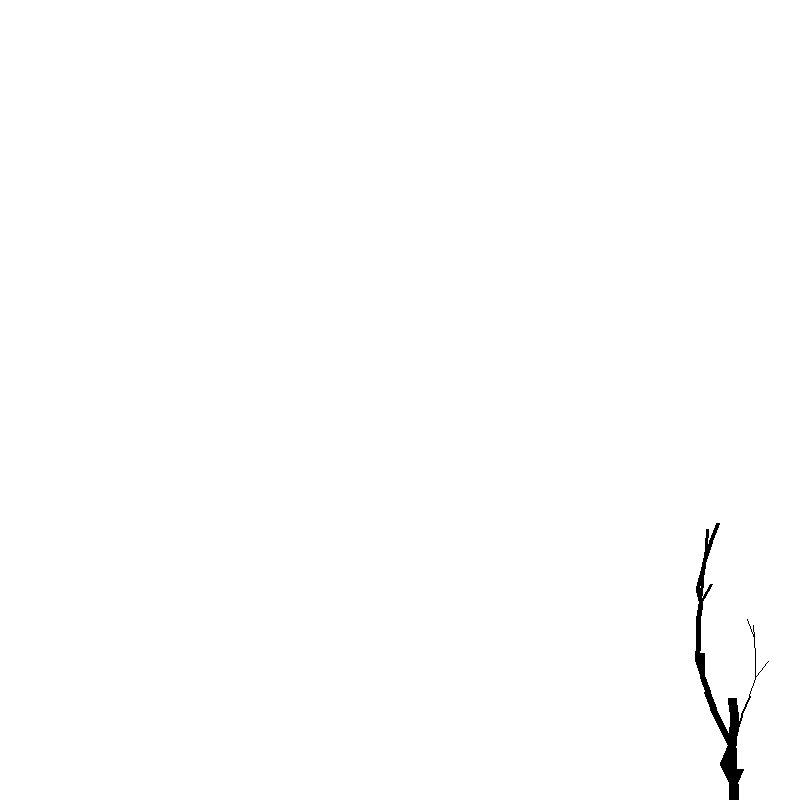
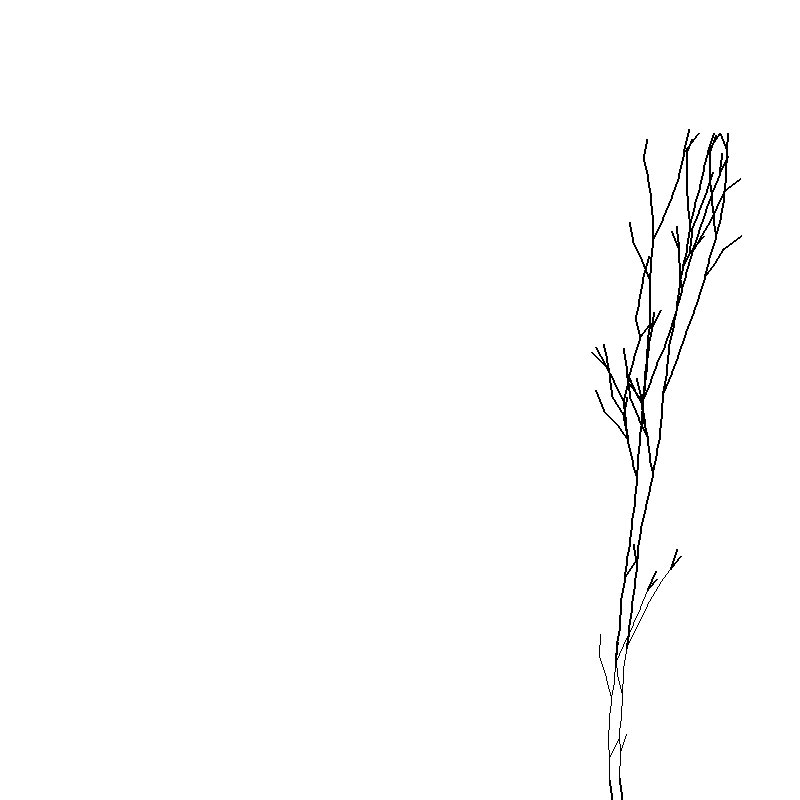
update

diff --git a/lsystemspog.py b/lsystemspog.py
@@ -75,7 +75,10 @@ def drawtree(screen, fullstring, posx, posy, seg_thickness, da, iterations):
     saving_endingofbraches = []
     branchcount = 0
 
+    max_seg_thickness = seg_thickness
     grow_angle = -90
+    text = MyText(BLACK)
+
     for cmd in fullstring:
         if cmd == 'F':
             seg_length = random.randint(15,25)
@@ -84,11 +87,11 @@ def drawtree(screen, fullstring, posx, posy, seg_thickness, da, iterations):
             dy = sin(radians(grow_angle))*seg_length
             distance = math.sqrt((((posx+dx)-posx)**2)+(((posy+dy)-posy)**2))
 
-            #screen.fill(WHITE)
-
             curbranch = branch(branchcount, distance, posx, posy, posx+dx, posy+dy)
             listofbranches.append(curbranch)
-            if (seg_thickness < 1):
+
+
+            if (seg_thickness <= 1):
                 curbranch.drawbranch(screen, 2)
             else:
                 curbranch.drawbranch(screen, int(seg_thickness))
@@ -103,7 +106,8 @@ def drawtree(screen, fullstring, posx, posy, seg_thickness, da, iterations):
             branchcount += 1
             posx = posx+dx
             posy = posy+dy
-            time.sleep(0.1)
+            time.sleep(0.05)
+            print(seg_thickness,"/",max_seg_thickness)
 
         elif cmd == '+':
             grow_angle += da
@@ -111,12 +115,20 @@ def drawtree(screen, fullstring, posx, posy, seg_thickness, da, iterations):
             grow_angle -= da
 
         elif cmd == '[':
-            seg_thickness -= 1
+            if (branchcount*iterations > iterations*5):
+                seg_thickness = seg_thickness-3
             saving_endingofbraches.append((posx,posy))
             saving_angle.append(grow_angle)
         elif cmd == ']':
+            if (branchcount*iterations > iterations*5):
+                seg_thickness = seg_thickness + 2
+                #seg_thickness = max_seg_thickness
+                #print(seg_thickness)
             posx,posy = saving_endingofbraches.pop()
             grow_angle = saving_angle.pop()
+
+        text.draw("Iterations = %f" % iterations, screen, (10,10))
+        text.draw("branch thickness = %f" % seg_thickness, screen, (10,40))
 
 def maketree(axiom, iterations):
     model = derivation(axiom, iterations)  # axiom (initial string), nth iterations
@@ -131,18 +143,17 @@ def maketree(axiom, iterations):
 def drawying(curimg):
     #-Init pygame stuff:----
     pygame.init()
-    #window_length = 1224
-    #window_height = 720
-    window_length = 800
-    window_height = 800
+    window_length = 1224
+    window_height = 720
+    #window_length = 800
+    #window_height = 800
     screen = pygame.display.set_mode((window_length, window_height))
     pygame.display.set_caption("Generating Trees")
 
-    #backgroundimg = pygame.image.load('a-banner-with-a-simple-spring-landscape-a-meadow-with-green-grass-and-a-blue-sky-with-clouds.png')
+    backgroundimg = pygame.image.load('a-banner-with-a-simple-spring-landscape-a-meadow-with-green-grass-and-a-blue-sky-with-clouds.png')
 
     screen.fill(WHITE)
-    #screen.blit(backgroundimg, (0,0))
-    text = MyText(BLACK)
+    screen.blit(backgroundimg, (0,0))
     #-----------------------
     #-l systems set up string----
     rule = "F->FF"
@@ -153,11 +164,11 @@ def drawying(curimg):
     key,value = rule.split("->")
     X_RULES.append(value)
 
-    rule = "X->F-[[X]+X]+F[+FX]-X"
+    rule = "X->F-[[-X]+X]+F[+FX]-X"
     key, value = rule.split("->")
     X_RULES.append(value)
 
-    rule = "X->F[-FX+FXFF][+FXX]"
+    rule = "X->F[-FX+FXF-F][+FXX]"
     key, value = rule.split("->")
     X_RULES.append(value)
 
@@ -187,6 +198,7 @@ def drawying(curimg):
 
     #make tree:
     screen.fill(WHITE)
+    screen.blit(backgroundimg,(0,0))
     for i in range(int(sys.argv[2])):
         posix = random.randint(20,window_length)
         fullstring = maketree(axiom, iterations)
@@ -197,7 +209,7 @@ def drawying(curimg):
     # for i in listofbranches:
     #     print("branch num: ",i.id, " start location: ", i.startx,",",i.starty," end location: ",i.endx,",",i.endy)
     #     pygame.draw.circle(screen, RED, (int(i.endx),int(i.endy)), 2)
-    # text.draw("Iterations = %f" % iterations, screen, (10,10))
+
     while step<80:
         clock.tick(30)
         event = pygame.event.wait()
@@ -215,7 +227,7 @@ def drawying(curimg):
 
 def main():
     curimag = 1
-    for i in range(3):
+    for i in range(1):
         drawying(curimag)
         curimag += 1
     sys.exit(0)
